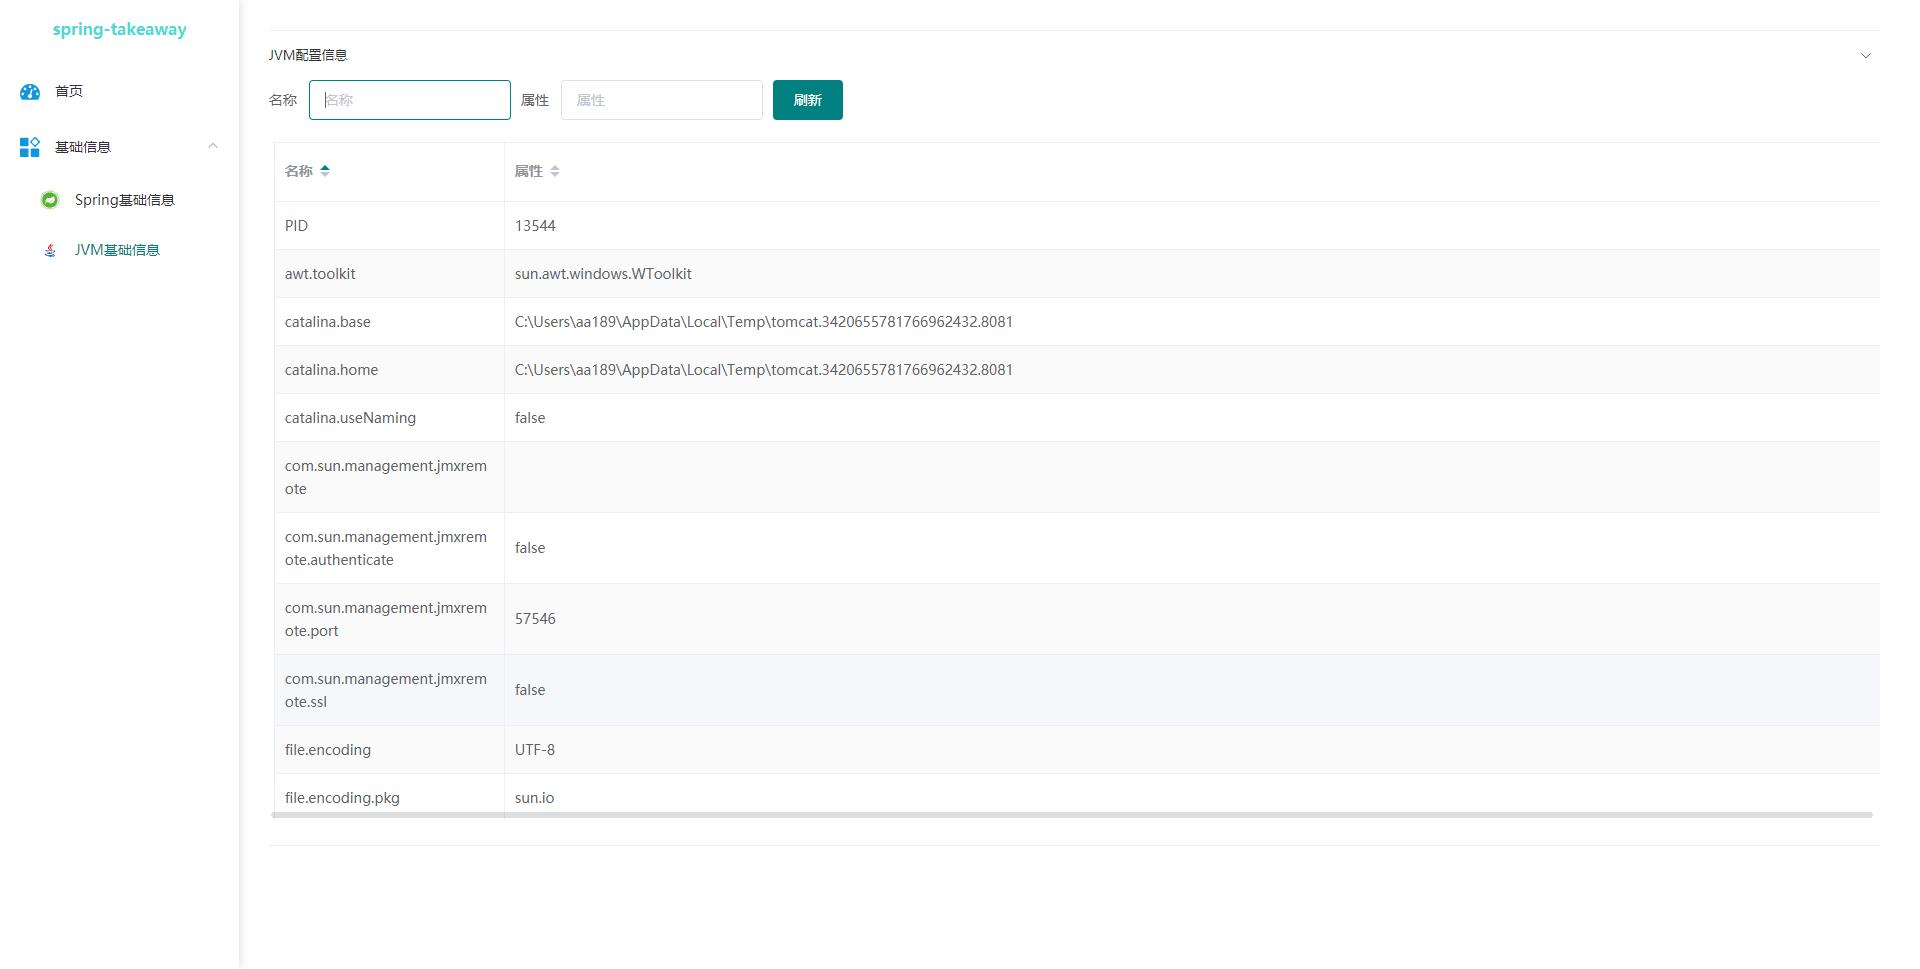
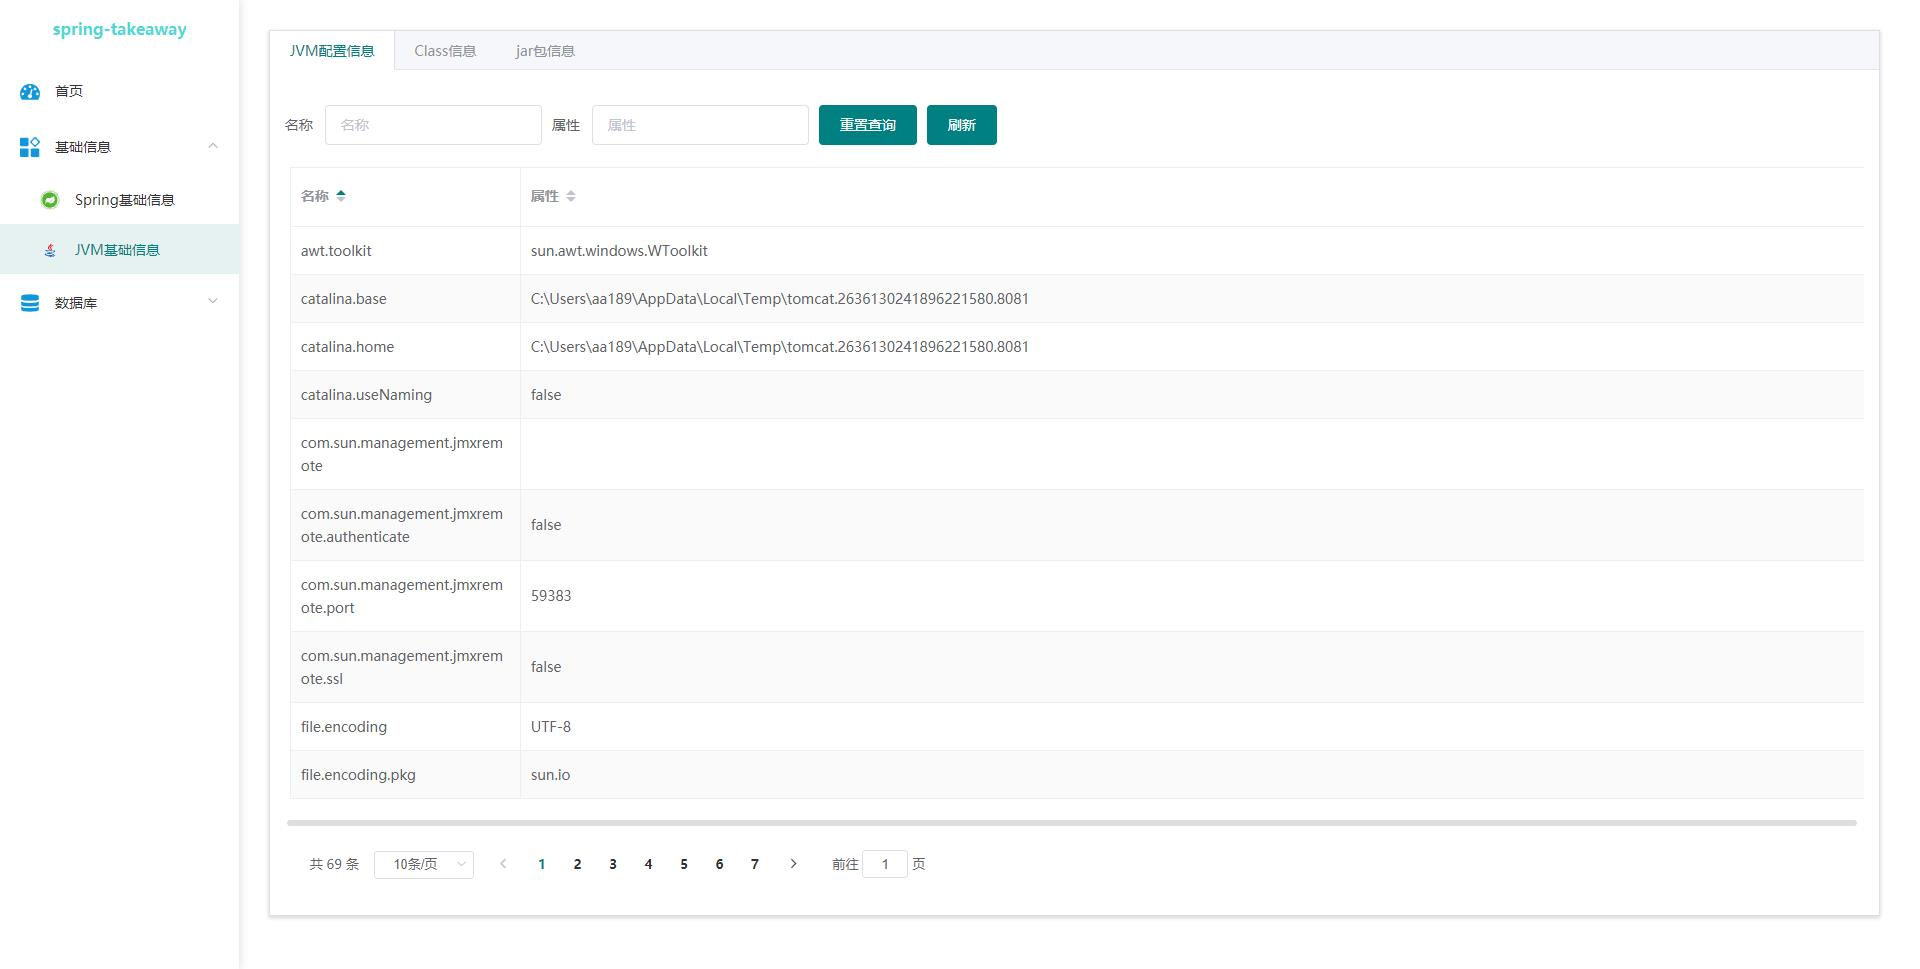
上传md

diff --git a/README.md b/README.md
@@ -18,3 +18,8 @@
 ### JVM基础信息展示
 
 ![cmd-markdown-logo](https://raw.githubusercontent.com/tanghuibo/spring-takeaway-ui/master/screenshot/jvm%E4%BF%A1%E6%81%AF%E9%A1%B5.jpg)
+
+
+### 数据库信息展示
+
+![cmd-markdown-logo](https://raw.githubusercontent.com/tanghuibo/spring-takeaway-ui/master/screenshot/%E6%95%B0%E6%8D%AE%E5%BA%93%E9%A1%B5%E9%9D%A2.jpg)
